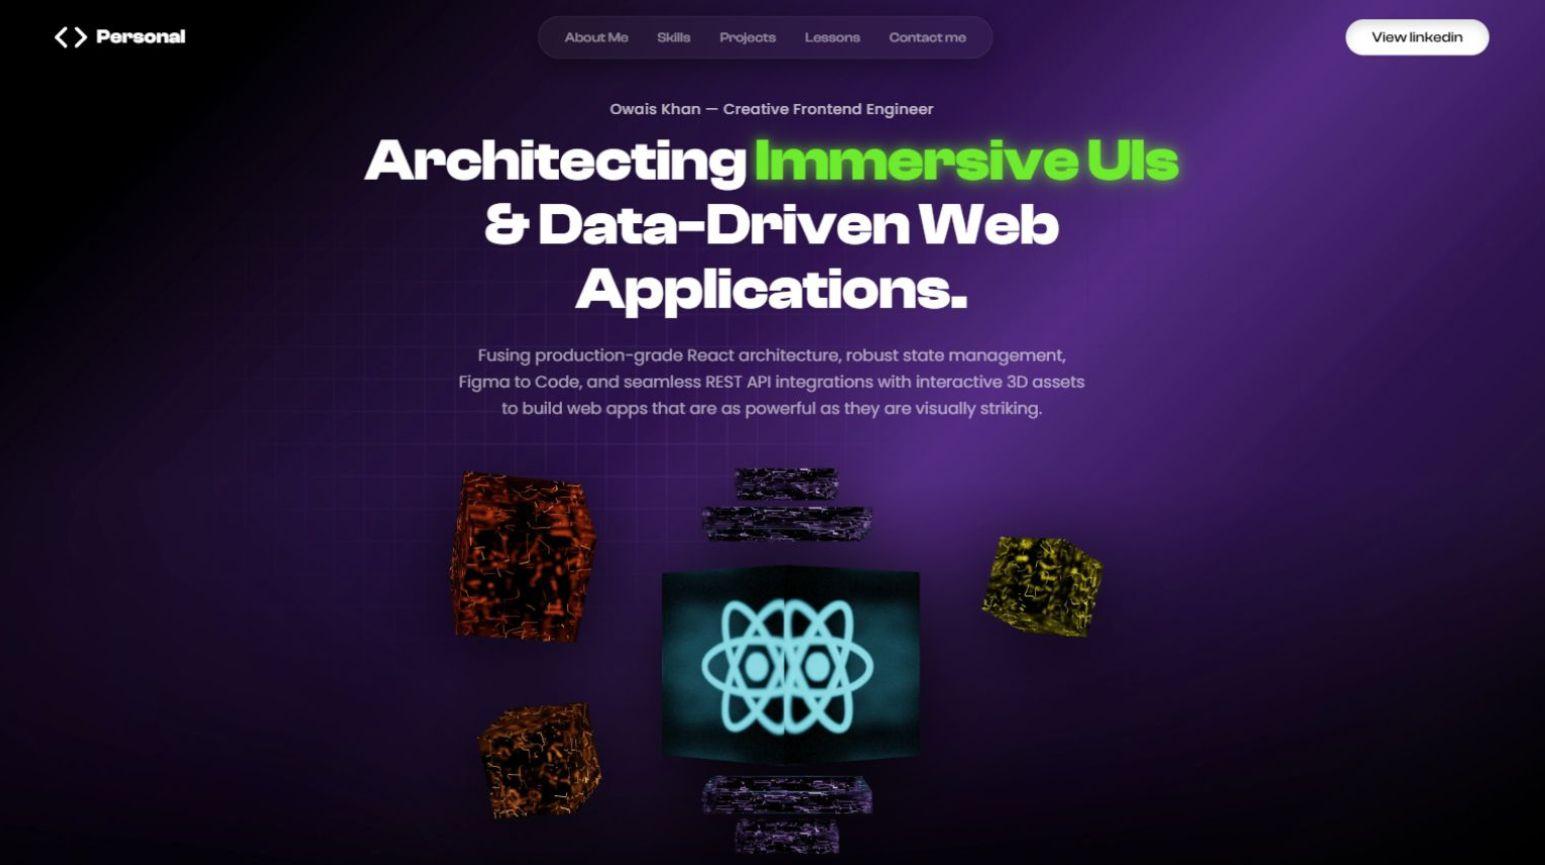
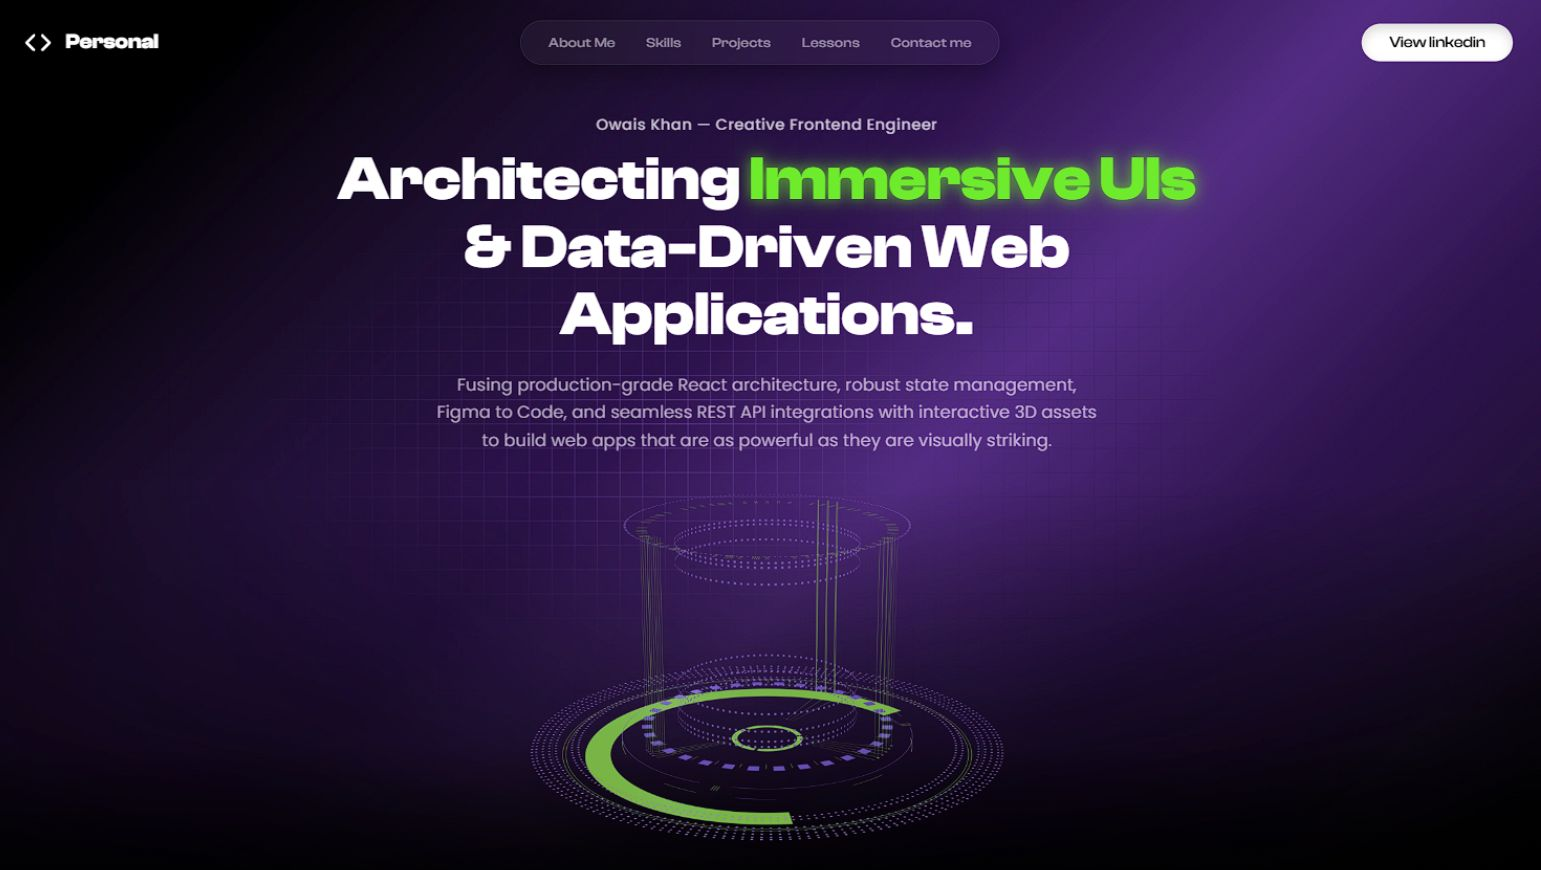
refactor: add HUD and bottom fade to home, refine isometric grid, and update project cards

diff --git a/src/Components/Projects/StickyProjectCard.jsx b/src/Components/Projects/StickyProjectCard.jsx
@@ -2,7 +2,15 @@ import githublender from "../../assets/skill assets/githublender.webp";
 
 function StickyProjectCard({ project, index, hoveredTechIndex, setHoveredTechIndex }) {
   const isEven = index % 2 === 1;
-  const stickyOffsets = ["top-20", "top-32", "top-44"];
+
+  const stickyOffsets = [
+    "top-16 md:top-20",
+    "top-12 md:top-28",
+    "top-24 md:top-36",
+    "top-8 md:top-12",
+  ];
+
+  const cardStickyClass = stickyOffsets[index] || "top-24 md:top-36";
 
   const imageContent = (
     <div className="relative border border-white/10 rounded-2xl overflow-hidden shadow-2xl w-full bg-black">
@@ -14,9 +22,11 @@ function StickyProjectCard({ project, index, hoveredTechIndex, setHoveredTechInd
     </div>
   );
 
+  const hasLinks = Boolean(project.liveUrl || project.githubUrl || project.figmaUrl);
+
   return (
     <div
-      className={`sticky ${stickyOffsets[index] || "top-44"} w-full transition-all duration-300`}
+      className={`sticky ${cardStickyClass} w-full`}
       style={{ zIndex: index + 1 }}
     >
       <div
@@ -78,71 +88,75 @@ function StickyProjectCard({ project, index, hoveredTechIndex, setHoveredTechInd
             </p>
           </div>
 
-          <div className="flex flex-wrap items-center gap-5 mt-6 pl-2">
-            {project.liveUrl && (
-              <a
-                href={project.liveUrl}
-                target="_blank"
-                rel="noreferrer"
-                className="font-poppins text-white hover:text-[#6eeb2c] transition-colors flex items-center gap-2 font-medium text-display-2 group"
-              >
-                <span>Live Preview</span>
-                <svg
-                  className="w-4 h-4 transition-transform group-hover:translate-x-0.5 group-hover:-translate-y-0.5"
-                  fill="none"
-                  stroke="currentColor"
-                  viewBox="0 0 24 24"
+          {hasLinks && (
+            <div className="flex flex-wrap items-center gap-5 mt-6 pl-2">
+              {project.liveUrl && (
+                <a
+                  href={project.liveUrl}
+                  target="_blank"
+                  rel="noreferrer"
+                  className="font-poppins text-white hover:text-[#6eeb2c] transition-colors flex items-center gap-2 font-medium text-display-2 group"
                 >
-                  <path
-                    strokeLinecap="round"
-                    strokeLinejoin="round"
-                    strokeWidth="2"
-                    d="M10 6H6a2 2 0 00-2 2v10a2 2 0 002 2h10a2 2 0 002-2v-4M14 4h6m0 0v6m0-6L10 14"
-                  />
-                </svg>
-              </a>
-            )}
+                  <span>Live Preview</span>
+                  <svg
+                    className="w-4 h-4 transition-transform group-hover:translate-x-0.5 group-hover:-translate-y-0.5"
+                    fill="none"
+                    stroke="currentColor"
+                    viewBox="0 0 24 24"
+                  >
+                    <path
+                      strokeLinecap="round"
+                      strokeLinejoin="round"
+                      strokeWidth="2"
+                      d="M10 6H6a2 2 0 00-2 2v10a2 2 0 002 2h10a2 2 0 002-2v-4M14 4h6m0 0v6m0-6L10 14"
+                    />
+                  </svg>
+                </a>
+              )}
 
-            <a
-              href={project.githubUrl}
-              target="_blank"
-              rel="noreferrer"
-              className="font-poppins text-gray-300 hover:text-white transition-colors flex items-center gap-2 font-medium text-display-2 group"
-            >
-              <span>GitHub Repo</span>
-              <div className="w-8 h-8 rounded-full bg-white/5 border border-white/10 flex items-center justify-center p-0.5 transition-transform group-hover:scale-110">
-                <img
-                  src={githublender}
-                  alt="github-icon"
-                  className="w-full h-full object-contain"
-                />
-              </div>
-            </a>
-
-            {project.figmaUrl && (
-              <a
-                href={project.figmaUrl}
-                target="_blank"
-                rel="noreferrer"
-                className="font-poppins text-gray-300 hover:text-[#F24E1E] transition-colors flex items-center gap-2 font-medium text-display-2 group"
-              >
-                <span>View Figma Design</span>
-                <svg
-                  className="w-4 h-4 transition-transform group-hover:translate-x-0.5 group-hover:-translate-y-0.5"
-                  fill="none"
-                  stroke="currentColor"
-                  viewBox="0 0 24 24"
+              {project.githubUrl && (
+                <a
+                  href={project.githubUrl}
+                  target="_blank"
+                  rel="noreferrer"
+                  className="font-poppins text-gray-300 hover:text-white transition-colors flex items-center gap-2 font-medium text-display-2 group"
                 >
-                  <path
-                    strokeLinecap="round"
-                    strokeLinejoin="round"
-                    strokeWidth="2"
-                    d="M10 6H6a2 2 0 00-2 2v10a2 2 0 002 2h10a2 2 0 002-2v-4M14 4h6m0 0v6m0-6L10 14"
-                  />
-                </svg>
-              </a>
-            )}
-          </div>
+                  <span>GitHub Repo</span>
+                  <div className="w-8 h-8 rounded-full bg-white/5 border border-white/10 flex items-center justify-center p-0.5 transition-transform group-hover:scale-110">
+                    <img
+                      src={githublender}
+                      alt="github-icon"
+                      className="w-full h-full object-contain"
+                    />
+                  </div>
+                </a>
+              )}
+
+              {project.figmaUrl && (
+                <a
+                  href={project.figmaUrl}
+                  target="_blank"
+                  rel="noreferrer"
+                  className="font-poppins text-gray-300 hover:text-[#F24E1E] transition-colors flex items-center gap-2 font-medium text-display-2 group"
+                >
+                  <span>View Figma Design</span>
+                  <svg
+                    className="w-4 h-4 transition-transform group-hover:translate-x-0.5 group-hover:-translate-y-0.5"
+                    fill="none"
+                    stroke="currentColor"
+                    viewBox="0 0 24 24"
+                  >
+                    <path
+                      strokeLinecap="round"
+                      strokeLinejoin="round"
+                      strokeWidth="2"
+                      d="M10 6H6a2 2 0 00-2 2v10a2 2 0 002 2h10a2 2 0 002-2v-4M14 4h6m0 0v6m0-6L10 14"
+                    />
+                  </svg>
+                </a>
+              )}
+            </div>
+          )}
         </div>
 
         <div className="w-full xl:w-7/12 relative group">

diff --git a/src/Components/Home/Hero.jsx b/src/Components/Home/Hero.jsx
@@ -11,20 +11,20 @@ function Hero() {
     offset: ["start start", "end center"]
   });
 
-  const sceneScale = useTransform(scrollYProgress, [0, 1], [1, 1.18]);
+  const sceneScale = useTransform(scrollYProgress, [0, 1], [1, 1.12]);
 
   return (
-    <div ref={containerRef} className="relative w-full max-w-[1440px] h-auto px-fluid-x mx-auto pb-20">
+    <div ref={containerRef} className="relative w-full max-w-[1440px] xl:max-w-[1600px] h-auto px-fluid-x mx-auto pb-20">
       
-      <div className="absolute inset-0 w-full h-full flex justify-center items-center pointer-events-none opacity-40 z-0">
+      <div className="hidden md:flex absolute inset-0 w-full h-full justify-center items-center pointer-events-none z-0">
         <img 
           src={isometriclayer} 
           alt="Isometric Background" 
-          className="w-full h-full object-contain md:object-cover mix-blend-screen" 
+          className="md:w-[82%] md:h-[82%] lg:w-[92%] lg:h-[92%] xl:w-full xl:h-full object-contain lg:opacity-100 mix-blend-screen transition-all duration-300" 
         />
       </div>
 
-      <div className="relative z-10 w-full flex flex-col items-center gap-6 pt-24 md:pt-32">
+      <div className="relative z-10 w-full flex flex-col items-center gap-6 pt-26 md:pt-34">
         
         <div className="w-full flex flex-col items-center gap-3 text-center">
           <span className="text-display-4 font-poppins font-medium text-white/70 tracking-wide">
@@ -43,7 +43,7 @@ function Hero() {
           Fusing production-grade React architecture, robust state management, Figma to Code, and seamless REST API integrations with interactive 3D assets to build web apps that are as powerful as they are visually striking.
         </p>
 
-        <div className="w-full max-w-4xl mx-auto flex items-center justify-center relative pt-5 md:pt-7 px-4">
+        <div className="w-full max-w-3xl mx-auto flex items-center justify-center relative pt-5 md:pt-7 px-4">
           <motion.div 
             style={{ scale: sceneScale }}
             animate={{ y: [0, -12, 0] }}

diff --git a/src/Components/Projects/Projects.jsx b/src/Components/Projects/Projects.jsx
@@ -8,6 +8,7 @@ import project3 from "../../assets/Projects assets/portfolio web.png";
 import pcui from "../../assets/Projects assets/pc ui card-1.jpg";
 import pcui2 from "../../assets/Projects assets/pc ui card-2.jpg";
 import pcui3 from "../../assets/Projects assets/pc ui card-3.jpg";
+import Carrender from "../../assets/Projects assets/car render.jpg";
 
 import figmaicon from "../../assets/skill assets/figmablender.webp";
 import reactblender from "../../assets/skill assets/reactblender.webp";
@@ -117,6 +118,17 @@ function Projects() {
       image: pcui3,
       githubUrl: "https://github.com/owaiskhanfrontend/Portfolio-Web",
     },
+    {
+      id: 4,
+      title: "High-End 3D Visualizations",
+      tagline: "Featured Project",
+      description:
+        "Backed by one year of intensive experience in Blender 3D, I create photorealistic 3D models, custom product mockups, and high-end studio renders. Capable of designing and staging any custom 3D mockup or scene from concept to final render—focused on clean geometry, advanced material shaders (glass, matte paint, brushed metals), and precise studio lighting to achieve commercial-grade product visualizations.",
+      techStack: [
+        { name: "Blender 3D", img: blendericon, color: "#F5792A" },
+      ],
+      image: Carrender,
+    },
   ];
 
   return (
@@ -186,13 +198,13 @@ function Projects() {
 
           <div className="w-full flex flex-col relative mt-12 space-y-12">
             {projectsList.map((project, index) => (
-              <StickyProjectCard 
-                key={project.id}
-                project={project}
-                index={index}
-                hoveredTechIndex={hoveredTechIndex}
-                setHoveredTechIndex={setHoveredTechIndex}
-              />
+            <StickyProjectCard
+            key={project.id}
+            project={project}
+            index={index}
+            hoveredTechIndex={hoveredTechIndex}
+            setHoveredTechIndex={setHoveredTechIndex}
+            />
             ))}
           </div>
 

diff --git a/src/Components/Home/Home.jsx b/src/Components/Home/Home.jsx
@@ -7,6 +7,11 @@ function Home() {
       className="w-full h-auto bg-cover bg-center flex overflow-hidden relative"
       style={{ backgroundImage: `url(${Background})` }}
     >
+      <div
+        aria-hidden="true"
+        className="pointer-events-none absolute inset-x-0 bottom-0 h-44 xl:h-52 z-[1] bg-gradient-to-b from-transparent to-black"
+      />
+
       <Hero />
     </div>
   );
